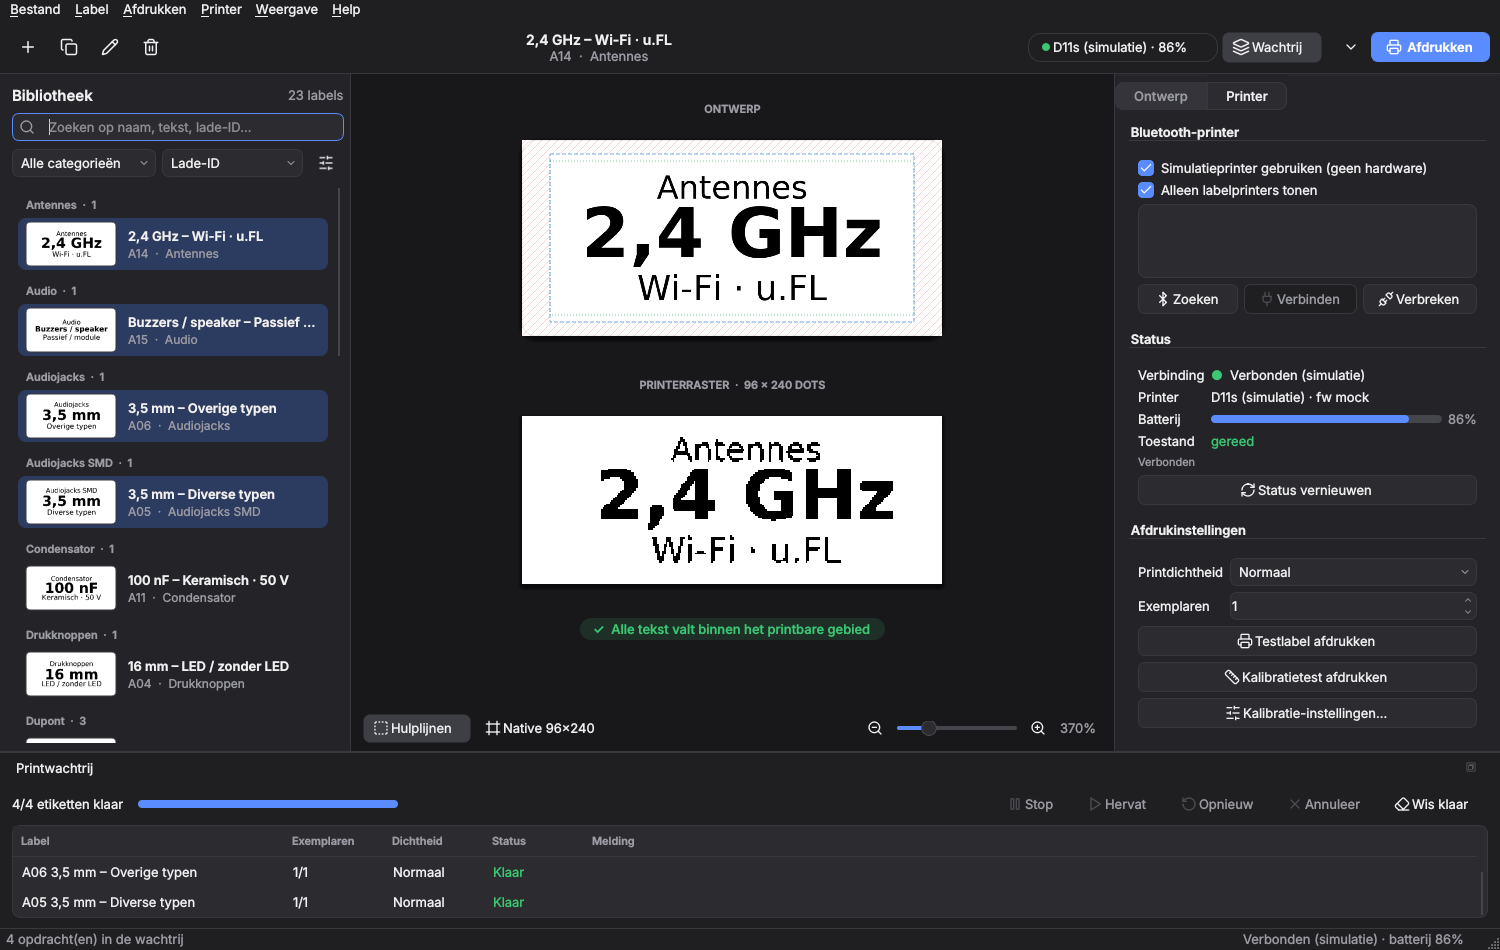
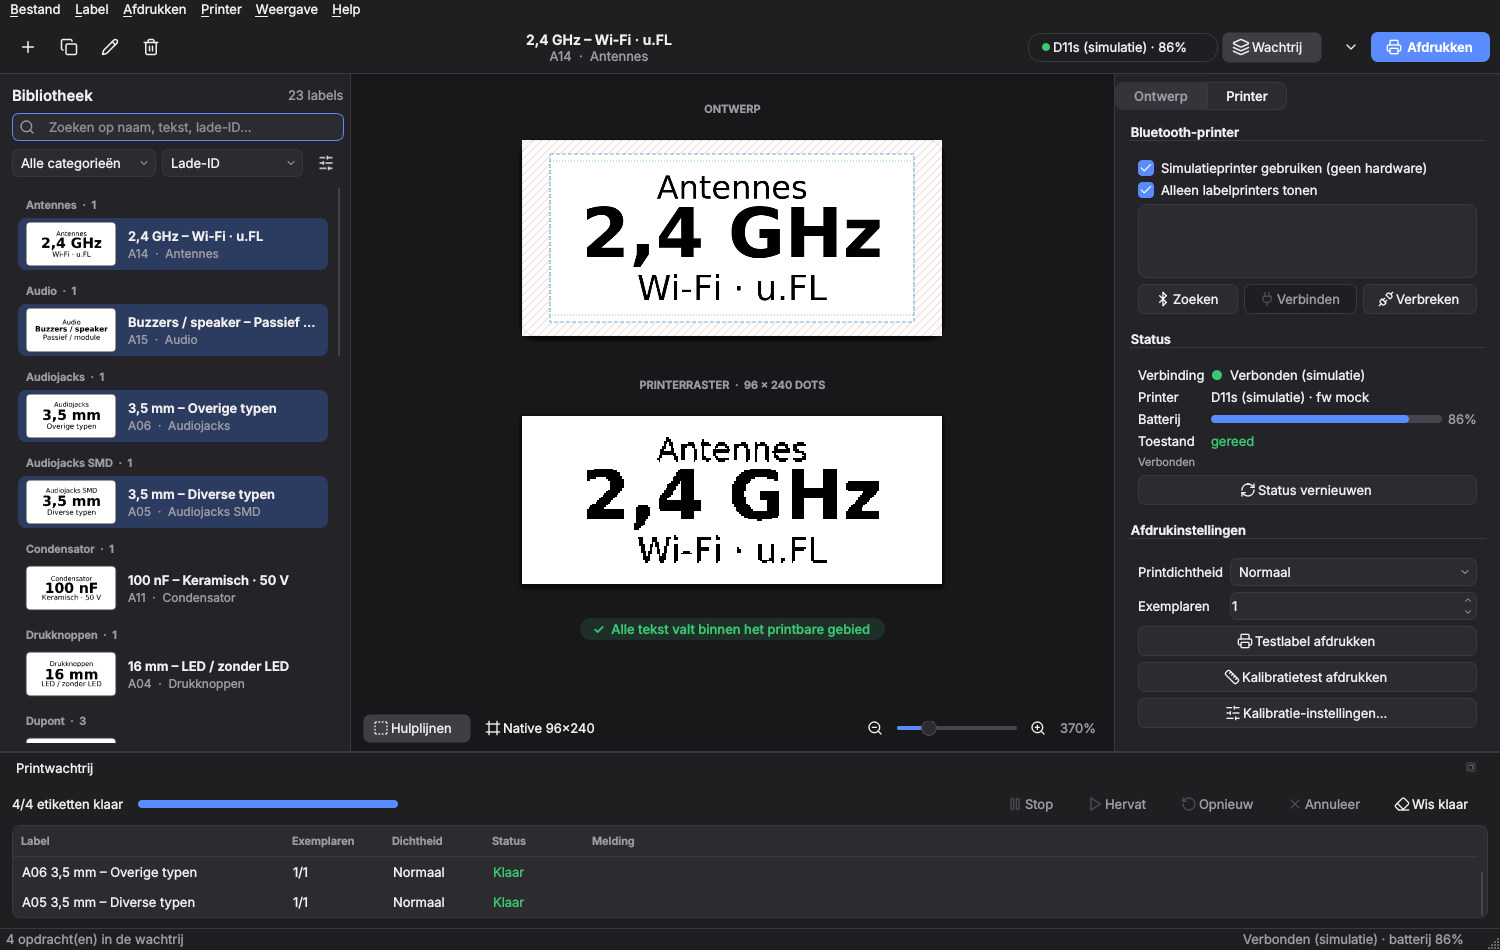
Show the printer raster where it lands on the label
The built-in Fichero feed offset only compensates for where the printer
starts printing, so the preview and the print dialog undo it and show the
dots centred on the label as they will come out.

Changed region(s): [[0.368, 0.4579, 0.6133, 0.6105]]

diff --git a/src/etiknivo/rendering/engine.py b/src/etiknivo/rendering/engine.py
@@ -242,6 +242,18 @@ class RenderEngine:
         return raster.transpose(Image.Transpose.ROTATE_90 if self.calibration.rotate_clockwise
                                 else Image.Transpose.ROTATE_270)
 
+    def raster_on_label(self, raster: Image.Image) -> Image.Image:
+        """The raster in design orientation as it lands on the label: the printer's
+        built-in feed offset, which only compensates for where the printer starts
+        printing, is undone so the preview shows the real position."""
+        band = self.raster_to_design(raster)
+        shift = self.profile.feed_offset_px
+        if not shift:
+            return band
+        out = Image.new("1", band.size, 1)
+        out.paste(band, (-shift, 0))
+        return out
+
     # -- internals -----------------------------------------------------------------
 
     def _mask_unprintable(self, mono: Image.Image) -> Image.Image:

diff --git a/tests/test_rendering.py b/tests/test_rendering.py
@@ -59,6 +59,14 @@ def test_design_canvas_and_printable_band(engine: RenderEngine) -> None:
     assert ink_bbox(r.mono.crop((224, 0, 240, 112))) is None
 
 
+def test_raster_preview_shows_position_on_label(engine: RenderEngine) -> None:
+    lbl = make_label("", "", "B", "", layout=LayoutPreset.SINGLE)
+    lbl.style.border = True
+    shown = engine.raster_on_label(engine.render(lbl).raster)
+    bb = ink_bbox(shown)
+    assert bb[0] == 16 and 240 - bb[2] == 16  # border centred: 2 mm at both ends
+
+
 def test_fichero_feed_offset_is_built_in(engine: RenderEngine) -> None:
     # measured on a real Fichero 5836; the user's calibration starts at 0
     assert Calibration().offset_feed_px == 0

diff --git a/src/etiknivo/gui/main_window.py b/src/etiknivo/gui/main_window.py
@@ -260,7 +260,8 @@ class MainWindow(QMainWindow):
         h2 = QLabel(f"PRINTERRASTER  ·  {self.profile.printhead_px} × "
                     f"{self.profile.label_length_px} DOTS")
         h2.setObjectName("caption")
-        h2.setToolTip("1-bit: exact wat er naar de printer gaat, inclusief kalibratie.")
+        h2.setToolTip("1-bit: exact de dots die geprint worden, op de plek waar ze op het "
+                      "etiket komen (inclusief je kalibratie).")
         self.raster_view = RasterView(self.engine)
         self.warnings = QLabel()
         self.warnings.setObjectName("pill")

diff --git a/src/etiknivo/gui/dialogs.py b/src/etiknivo/gui/dialogs.py
@@ -58,7 +58,7 @@ class PrintPreviewDialog(QDialog):
         self.overflow = 0
         for row, lbl in enumerate(labels):
             r = engine.render(lbl)
-            pm = pil_to_pixmap(engine.raster_to_design(r.raster).convert("L")).scaled(
+            pm = pil_to_pixmap(engine.raster_on_label(r.raster).convert("L")).scaled(
                 180, 84, Qt.AspectRatioMode.KeepAspectRatio,
                 Qt.TransformationMode.FastTransformation)
             icon_item = QTableWidgetItem()

diff --git a/src/etiknivo/gui/preview.py b/src/etiknivo/gui/preview.py
@@ -151,7 +151,7 @@ class RasterView(_BaseView):
         if self.result is None:
             self._qimg = None
             return
-        img = self.result.raster if self.native else self.engine.raster_to_design(
+        img = self.result.raster if self.native else self.engine.raster_on_label(
             self.result.raster)
         self._qimg = pil_to_qimage(img)
 
